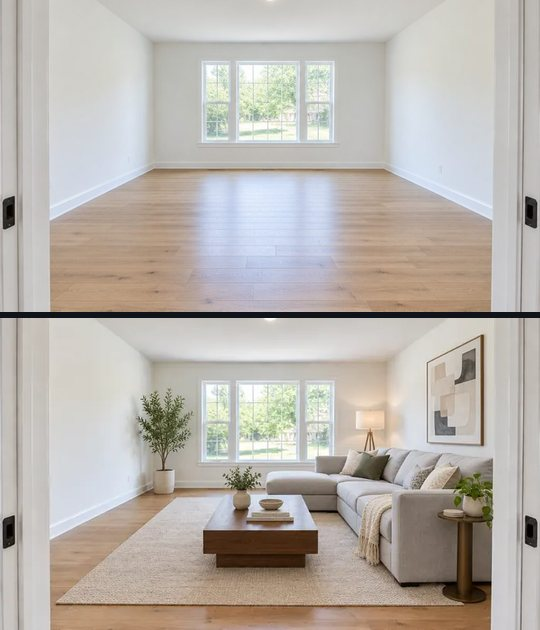
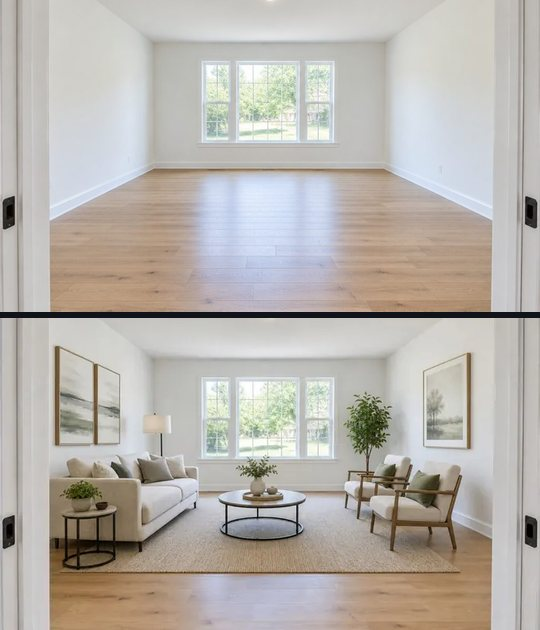
content(staging): sample shows the real, unedited gpt-image-2 output of test order #6
The Virtual Staging "after" on the tool page, the home card and the OG card was
an illustration. It is now version 1 of production test order #6 exactly as the
pipeline delivered it (1536x1040, recessed light, walls, floor, windows and
doors untouched), so the sample is what a customer receives. Copy says so and
reminds agents to label the photo "virtually staged" in the MLS.

Progress doc + operator log updated.

Claude-Session: https://claude.ai/code/session_01675WY9gmT8FsbHYNhdWqRS

Changed region(s): [[0.0889, 0.5127, 0.9185, 1.0]]

diff --git a/src/lib/tools/samples/virtual-staging.ts b/src/lib/tools/samples/virtual-staging.ts
@@ -1,25 +1,25 @@
 import type { SampleResult } from "@/lib/tools/types";
 
 /**
- * Sample shown on /tools/virtual-staging. The before photo is a fictional empty living room; the "after" is the
- * kind of result the image model returns for it (same walls, floor, windows and camera angle — only furniture,
- * rug, lighting and decor added). Static files under public/img — nothing is generated at request time.
+ * Sample shown on /tools/virtual-staging and the home page. The "before" is a sample photo of an empty room;
+ * the "after" is the unedited output of the production pipeline for it (test order #6, gpt-image-2,
+ * 2026-09-26) — so the sample is exactly what a customer receives. Static files under public/img.
  */
 export const SAMPLE_VIRTUAL_STAGING_RESULT: SampleResult = {
-  label: "Sample for a fictional empty living room",
+  label: "Real result for a sample photo of an empty living room",
   input: [
-    "1 photo of the empty living room — three windows, oak floor (JPG, 1.8 MB)",
+    "1 photo of the empty living room — three windows, oak floor, recessed ceiling light",
     "Room: living room · Style: modern",
     "Notes: keep the windows and the floor visible, no TV on the wall",
   ],
   output: [
     {
-      heading: "Staged version 1 — modern living room (JPG)",
-      text: "A grey sectional, a walnut coffee table, a jute rug, a floor lamp, an olive tree and one large print were added. Walls, floor, windows, door, trim and the camera perspective are exactly as photographed.",
+      heading: "Staged version 1 — modern living room (JPG, 1536×1040)",
+      text: "A cream sofa with a side table, a round coffee table on a jute rug, two wood-frame armchairs, a floor lamp, an olive tree and three framed prints were added. The recessed ceiling light, walls, floor, windows, doors and the camera position are exactly as photographed, and the photo keeps its proportions.",
     },
     {
-      heading: "Staged version 2 — modern living room (JPG)",
-      text: "The same room with a second furniture layout, so you can pick the version that reads best as the listing's hero photo.",
+      heading: "Staged version 2 — modern living room (JPG, 1536×1040)",
+      text: "The same room with a second furniture layout — different coffee table, lamps and plant placement — so you can pick the version that reads best as the listing's hero photo.",
     },
     {
       heading: "Staging details (JSON)",
@@ -28,11 +28,11 @@ export const SAMPLE_VIRTUAL_STAGING_RESULT: SampleResult = {
   ],
   preview: {
     image: "/img/sample-virtual-staging.webp",
-    alt: "Before and after: the same empty living room, then virtually staged with a sectional sofa, rug, coffee table and plants",
+    alt: "Before and after: an empty living room, then the same photo virtually staged with a sofa, rug, coffee table, armchairs, a floor lamp and framed prints",
     width: 1420,
     height: 480,
   },
-  note: "Label the photo “virtually staged” in the MLS — most boards require it. If anything structural changed in your result, one redo is included.",
+  note: "The staged photo above is the unedited output of our pipeline. Label it “virtually staged” in the MLS — most boards require it. If anything structural changes in your result, one redo is included.",
 };
 
 /**

diff --git a/src/app/page.tsx b/src/app/page.tsx
@@ -121,11 +121,11 @@ export default async function HomePage() {
                 <span className="badge bg-gray-100 text-gray-700">Example</span>
               </div>
               <div className="overflow-hidden rounded-xl border border-line bg-card-2">
-                <Image src="/img/sample-virtual-staging.webp" alt="Before and after: an empty living room, then the same photo virtually staged with a sofa, rug and coffee table" width={1420} height={480} unoptimized className="h-auto w-full" />
+                <Image src="/img/sample-virtual-staging.webp" alt="Before and after: an empty living room, then the same photo virtually staged with a sofa, rug, coffee table and armchairs" width={1420} height={480} unoptimized className="h-auto w-full" />
               </div>
               <div className="grid gap-2 text-xs text-gray-500 sm:grid-cols-2">
                 <div>Before · one photo of the empty room, room type, style</div>
-                <div className="sm:text-right">After · 2 staged versions of that exact photo, JPG, about 2 minutes, $15</div>
+                <div className="sm:text-right">After · real pipeline output, unedited — 2 versions per photo, about 2 minutes, $15</div>
               </div>
               <Link href="/tools/virtual-staging#example" className="mt-auto text-sm font-semibold text-accent hover:underline">
                 See the sample and the six styles →

diff --git a/docs/AUTONOMOUS_PROGRESS.md b/docs/AUTONOMOUS_PROGRESS.md
@@ -6,7 +6,7 @@ Companion files: `OPERATOR.md` (infrastructure facts, owner actions, long sessio
 ## CURRENT STATUS
 
 - Production **live and healthy** at https://orvionis.com (Railway `courageous-flow` → service `hfjveojo`, EU West). Health: `/api/health` ok, embedded job loop ticking, hourly maintenance running.
-- 4 tools live: Listing Clips ($49, concierge 48 h), Photographer Pricing Guide ($29, auto), Listing Description ($9, auto), **Virtual Staging ($15, auto, gpt-image-2)** — proven in production 2026-09-26 15:17 (order #6: two clean staged versions in < 1 min, AI cost ≈ $0.11). Every tool page shows a real sample deliverable.
+- 4 tools live: Listing Clips ($49, concierge 48 h), Photographer Pricing Guide ($29, auto), Listing Description ($9, auto), **Virtual Staging ($15, auto, gpt-image-2)** — proven in production 2026-09-26 15:17 (order #6: two clean staged versions in < 1 min, AI cost ≈ $0.11). Every tool page shows a real sample deliverable (Virtual Staging: the unedited output of order #6, not a mock-up).
 - Payments: Stripe **sandbox** (`acct_1UIuDh2cM37Fu7zW` "orvionis sandbox"); key + webhook on the same account (webhook enabled, all 7 events). **Stripe → our webhook delivery is proven**: the real `checkout.session.expired` events of the pipeline-test sessions (04:54, 05:07) arrived signed and were processed. No real money possible until Stripe live activation (owner).
 - AI: OpenAI key live; smoke test in production answered "OK" (gpt-4.1-mini, 1.6 s, $0.0001). Budget guards: $5/day, $1/order.
 - Auth: magic link (email) + **Google sign-in** (verified end-to-end in production 2026-09-26 03:50). Admin = `ADMIN_EMAILS`.
@@ -42,8 +42,9 @@ Companion files: `OPERATOR.md` (infrastructure facts, owner actions, long sessio
 - 07:20–07:35: body-size guards on every JSON/upload route (413 before parsing); outreach kit refreshed ($9 entry DM, free-checker opener, sample links, UTM per experiment) in docs + /admin/content.
 - 07:35–08:10: free **photography pricing calculator** + `/free` index; experiment KPIs (est. Stripe fees, net contribution, revenue/founder hour, repeat rate, AI cost per paid order, free-tool uses).
 - 08:10–08:30: `Order.isTest` + admin **full pipeline test** (sandbox only) — run in production: Order #2 COMPLETED with real AI output and real emails, excluded from metrics.
-- 14:52–15:20: **Virtual Staging** shipped: transfer verified by full-tree checksum, commit `e0420f7` deployed (migration `20260926030000_output_type_image` applied, seed synced, graceful restart in logs); production test #5 on gpt-image-1 worked technically but visual review caught a chandelier swap and an added built-in; fixed in `2f1d6f2` (freestanding-only prompt, gpt-image-2 default, exact photo proportions, EXIF auto-rotate) → test #6 clean on both versions (recessed light, windows, walls, doors untouched, 1536×1040). Stripe webhook delivery confirmed from the expired-session events. Uptime monitor run #1 had failed on a Python f-string quirk while production was healthy (log: ok, db up, 1,845 worker ticks) — check rewritten, runs off the hour now and once on every change of the workflow file.
 - 08:30–09:00: delivered text rendered as sections with Copy buttons; GitHub Actions **uptime monitor** (every 15 min, emails on failure); pipeline test selectable per tool → production runs: #3 Pricing Guide COMPLETED (3 AI calls, PDF rendered, $0.02), #4 Listing Clips → REVIEW with the clip plan and concierge checklist (as designed); fixes found on the way (double-numbered steps, REVIEW note scope, close-test-order); OG cards for /free pages; CEO report text carries the new KPIs.
+- 14:52–15:20: **Virtual Staging** shipped: transfer verified by full-tree checksum, commit `e0420f7` deployed (migration `20260926030000_output_type_image` applied, seed synced, graceful restart in logs); production test #5 on gpt-image-1 worked technically but visual review caught a chandelier swap and an added built-in; fixed in `2f1d6f2` (freestanding-only prompt, gpt-image-2 default, exact photo proportions, EXIF auto-rotate) → test #6 clean on both versions (recessed light, windows, walls, doors untouched, 1536×1040). Stripe webhook delivery confirmed from the expired-session events. Uptime monitor run #1 had failed on a Python f-string quirk while production was healthy (log: ok, db up, 1,845 worker ticks) — check rewritten, runs off the hour now and once on every change of the workflow file.
+- 15:25–15:45: Virtual Staging sample replaced with the **real, unedited output of production order #6** (version 1, gpt-image-2): before/after composite on the tool page, home card and OG card; copy says "real pipeline output, unedited" and tells agents to label the photo "virtually staged" in the MLS.
 
 ## IN PROGRESS
 
@@ -61,10 +62,9 @@ Companion files: `OPERATOR.md` (infrastructure facts, owner actions, long sessio
 
 1. Owner: Stripe live activation, then one real $9 order (operator swaps keys, creates the live webhook, verifies, enables Stripe receipts).
 2. Owner + operator: first outreach batch — vacant listings (`re-ig-dm-staging`) and new listings (`re-ig-dm-9`); operator prepares 20 target profiles/day with personalised lines if the owner wants.
-3. Replace the Virtual Staging sample "after" with a real gpt-image-2 output from order #6 (honest "this is exactly what you get" proof) — needs the image moved from production storage into `public/img`.
-4. Close test orders #2–#6 in /admin once the owner has looked at them (#4 sits in REVIEW).
-5. Deliverable quality loop: read the outputs of orders #2–#6 critically and tighten prompts where needed.
-6. Browser extension — only on demand.
+3. Close test orders #2–#6 in /admin once the owner has looked at them (#4 sits in REVIEW).
+4. Deliverable quality loop: read the outputs of orders #2–#6 critically and tighten prompts where needed.
+5. Browser extension — only on demand.
 
 ## PRODUCTION STATUS
 

diff --git a/OPERATOR.md b/OPERATOR.md
@@ -56,6 +56,7 @@ Rule: no secrets in this file — only names, ids, paths and states.
 
 ## Session log
 
+- 2026-09-26 15:25–15:45 UTC+2: Virtual Staging sample is now the **real output of test order #6** (version 1, unedited). orvionis.com is unreachable from the operator sandbox, so the signed file URL from /admin was rendered in the Higgsfield sandbox, composited (before | after, 1420×480 WebP) and moved over in base64 chunks checked by md5 → `public/img/sample-virtual-staging.webp`; the OG card was rebuilt from the same pixels (`public/img/sample-virtual-staging-og.jpg`, 540×630 JPEG). Tool page + home card copy: "real pipeline output, unedited".
 - 2026-09-26 14:50–15:25 UTC+2: **Virtual Staging live** ($15, `/tools/virtual-staging`). Transfer to the owner's clone verified by a full-tree checksum sweep (caught two files missing from the bundle before commit); note for future sessions: extract with `tar --overwrite` (plain `tar x` must unlink, which the mount forbids) and move stray `.git/*.lock` files into `.git/stale-locks/` after git commands (the mount forbids unlink; `maintenance.auto=false` + `gc.auto=0` set locally, status runs with `GIT_OPTIONAL_LOCKS=0`). `e0420f7` deployed (migration + seed in Railway logs). Production test #5 (gpt-image-1) worked but both versions swapped the recessed light for a chandelier and one added a built-in bookcase → `2f1d6f2`: freestanding-only prompt, `gpt-image-2` default (gpt-image-1 deprecated; ≈ $0.041 per 1536×1024 image; arbitrary sizes keep the photo's proportions), EXIF auto-rotate + 2048 px cap on input → test #6 clean (1536×1040, light/windows/walls/doors untouched, $0.11). Stripe→webhook delivery confirmed via the real `checkout.session.expired` events. Uptime run #1 had failed on the check's own Python f-string, production healthy → fixed and rescheduled off the hour.
 - 2026-09-26 07:20–08:30 UTC+2: body-size guards (413) on all JSON/upload routes; outreach kit refreshed; free **photography pricing calculator** + `/free`; experiment KPIs (est. Stripe fees, net contribution, revenue/founder hour, repeat rate, free-tool uses); Resend domain **verified** and three production emails delivered (sign-in, order confirmation, delivery); `Order.isTest` + admin **full pipeline test** — run in production: Order #2 PAID → real OpenAI ($0.01) → QC PASSED → COMPLETED → emails. The whole result pipeline is proven; only Stripe's card step remains for the owner (test card in sandbox, then live).
 - 2026-09-26 07:05–07:20 UTC+2: production `/admin/system` verified after the owner replaced the Stripe key: account `acct_1UIuDh…` "orvionis sandbox", webhook on that account enabled with all 7 events; **Test AI provider → OK** (gpt-4.1-mini, 1.6 s). Stripe refused `accounts.update` on our own account, so the "Apply branding" action was removed — the card now links to the Dashboard branding page. New persistent state file `docs/AUTONOMOUS_PROGRESS.md` (status, priority, done/blocked/next, production status, metrics, decisions) — read it first in any new session.
